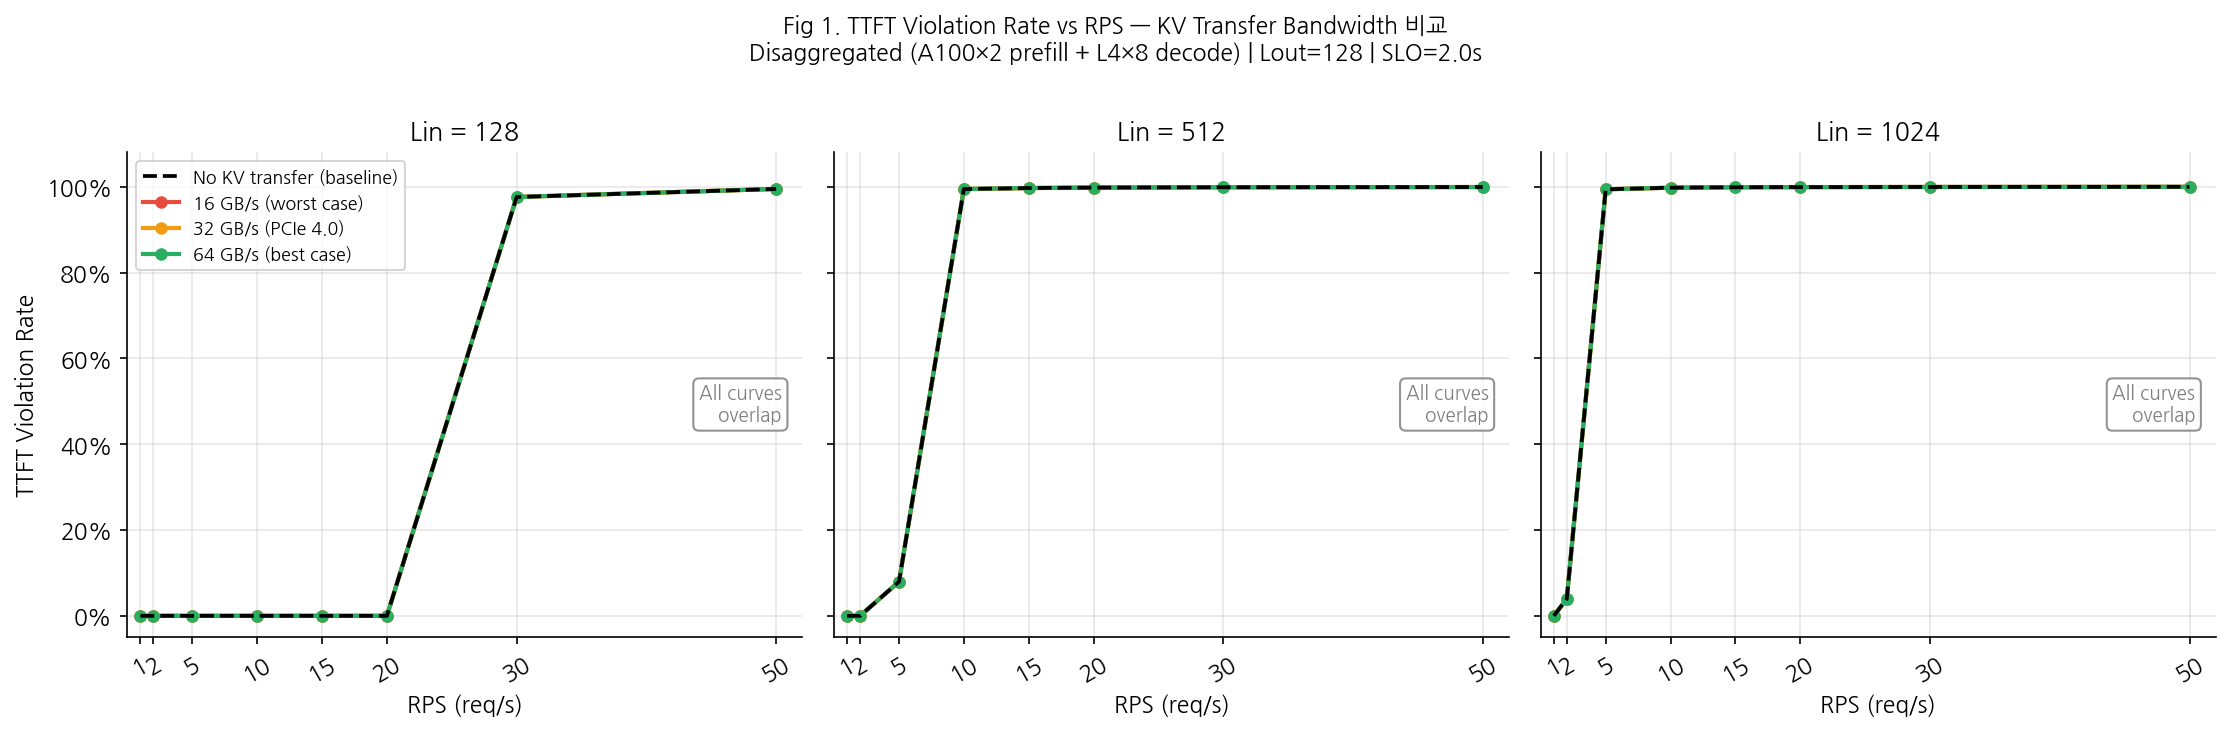
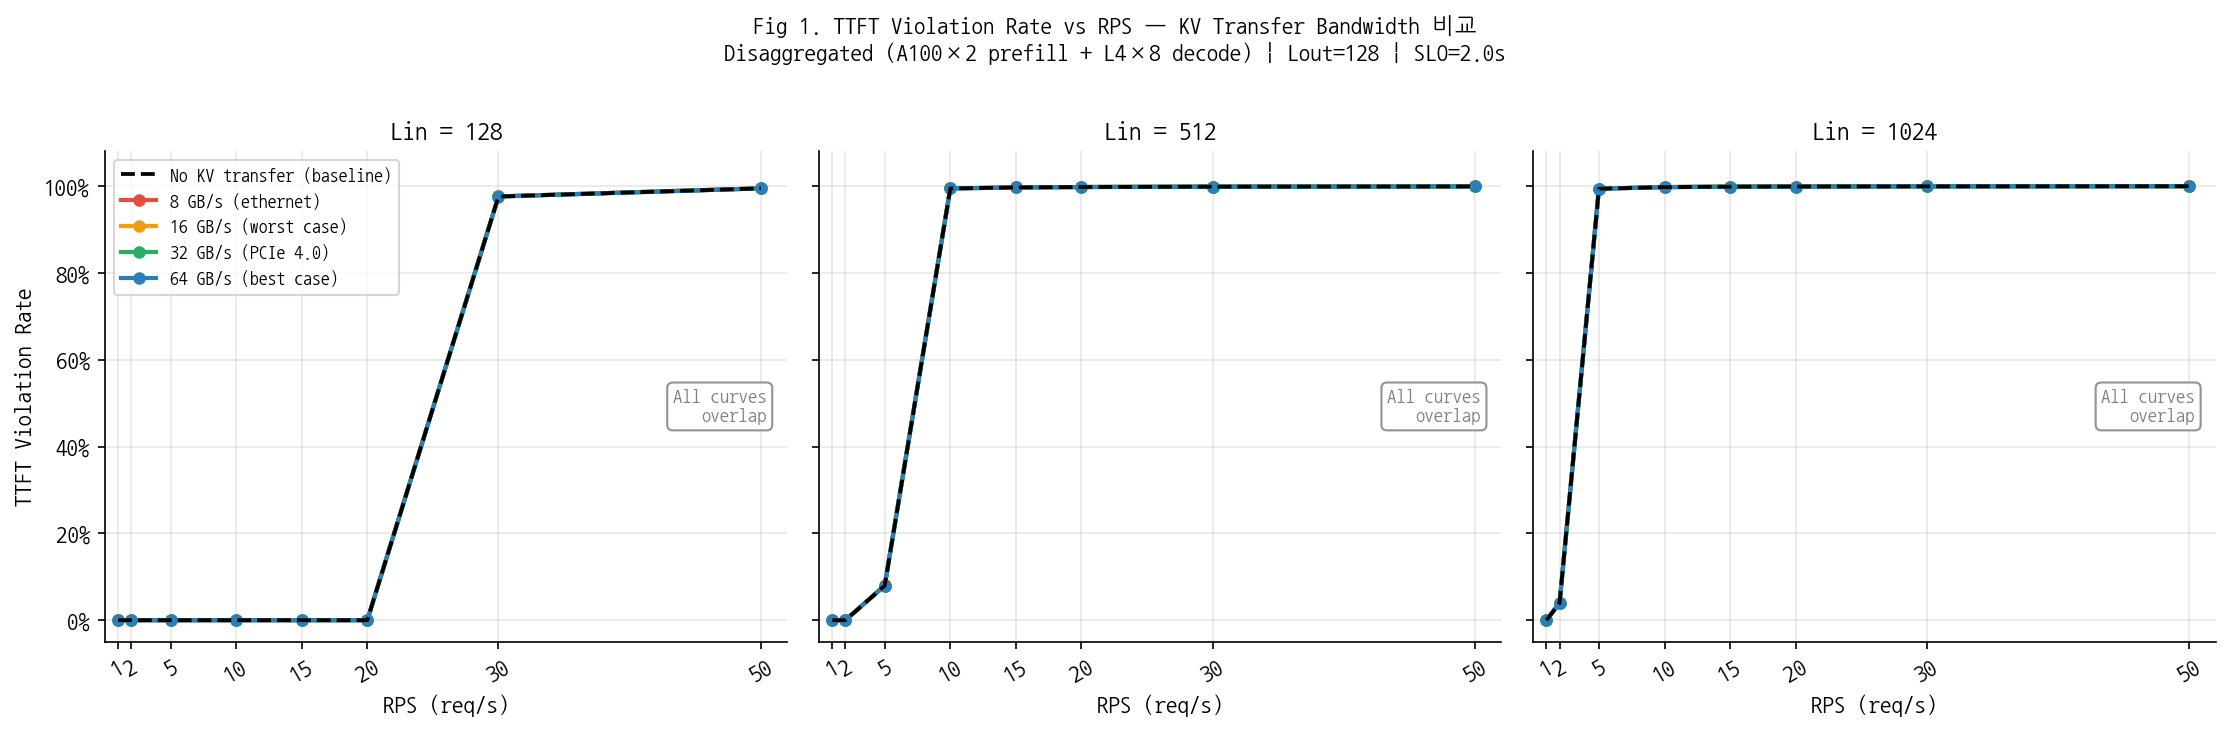
exp3: KV transfer latency analysis (negative result) + simulator update

diff --git a/plot_exp3_server.py b/plot_exp3_server.py
@@ -46,9 +46,9 @@ plt.rcParams.update({
 # ── 실험 파라미터 ──────────────────────────────────────────────────────
 T        = 300
 RPS_LIST = [1, 2, 5, 10, 15, 20, 30, 50]
-BW_LIST  = [16.0, 32.0, 64.0]
-BW_LABELS = ['16 GB/s (worst case)', '32 GB/s (PCIe 4.0)', '64 GB/s (best case)']
-BW_COLORS = ['#E74C3C', '#F39C12', '#27AE60']
+BW_LIST = [8.0, 16.0, 32.0, 64.0]
+BW_LABELS = ['8 GB/s (ethernet)', '16 GB/s (worst case)', '32 GB/s (PCIe 4.0)', '64 GB/s (best case)']
+BW_COLORS = ['#E74C3C', '#F39C12', '#27AE60', '#2980B9']
 LIN_LIST  = [128, 512, 1024]
 LOUT_FIXED = 128
 
@@ -126,14 +126,14 @@ ax.axhline(y=100,  color='gray',  lw=1.0, ls=':',  label='100 ms reference')
 ax.set_xlabel('Input Length (tokens)')
 ax.set_ylabel('KV Transfer Latency (ms)')
 ax.set_xlim(64, 1024)
-ax.set_ylim(0, 28)
+ax.set_ylim(0, 50)
 ax.legend(fontsize=9)
 
 # 주석: 최악 조건
-worst_ms = (1024 * KV_BYTES_PER_TOKEN) / (16e9) * 1000
+worst_ms = (1024 * KV_BYTES_PER_TOKEN) / (8e9) * 1000
 ax.annotate(
-    f'Worst case: Lin=1024, 16 GB/s\n→ {worst_ms:.1f} ms = {worst_ms/2000*100:.1f}% of SLO',
-    xy=(1024, worst_ms), xytext=(720, 22),
+    f'Worst case: Lin=1024, 8 GB/s\n→ {worst_ms:.1f} ms = {worst_ms/2000*100:.1f}% of SLO',
+    xy=(1024, worst_ms), xytext=(680, 24),
     arrowprops=dict(arrowstyle='->', color='#E74C3C'),
     fontsize=9, color='#E74C3C',
     bbox=dict(boxstyle='round,pad=0.3', fc='white', ec='#E74C3C', alpha=0.9)

diff --git a/simulator.py b/simulator.py
@@ -237,7 +237,7 @@ if __name__ == "__main__":
     print(f"{'bandwidth':>12}  {'rps':>4}  {'ttft_viol':>10}  {'mean_kv_xfer':>14}")
     print("=" * 75)
 
-    for bw in [16.0, 32.0, 64.0, 0.0]:
+    for bw in [8.0, 16.0, 32.0, 64.0, 0.0]:
         label = f"{bw:.0f} GB/s" if bw > 0 else "∞ (no xfer)"
         for rps in [1, 5, 10, 20]:
             timed = generate_poisson_requests_timed(
